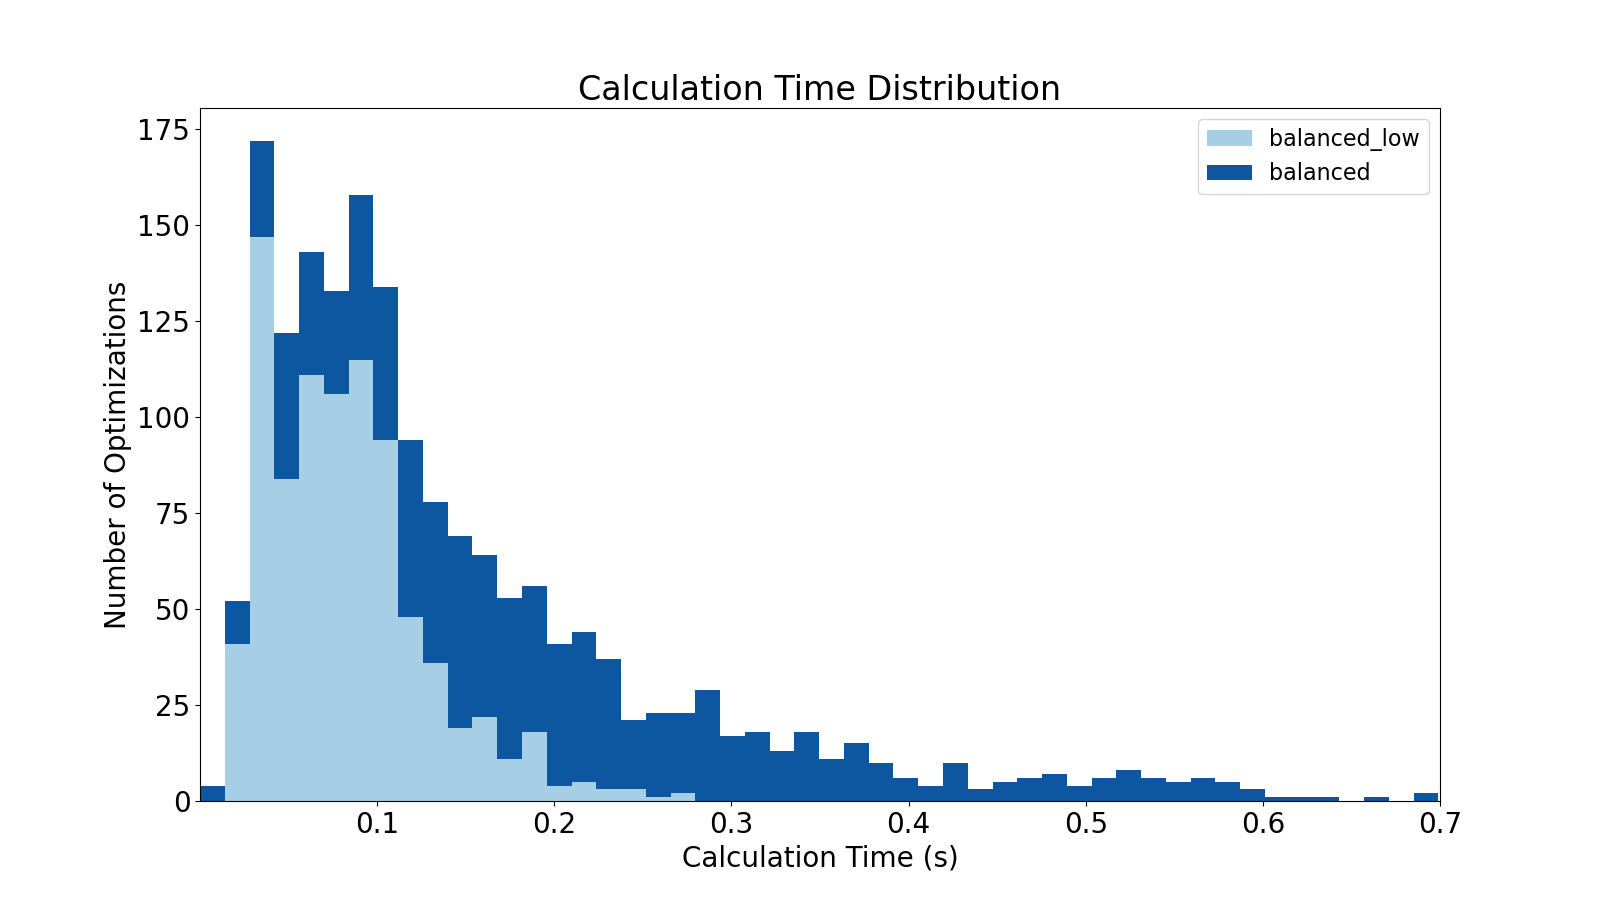
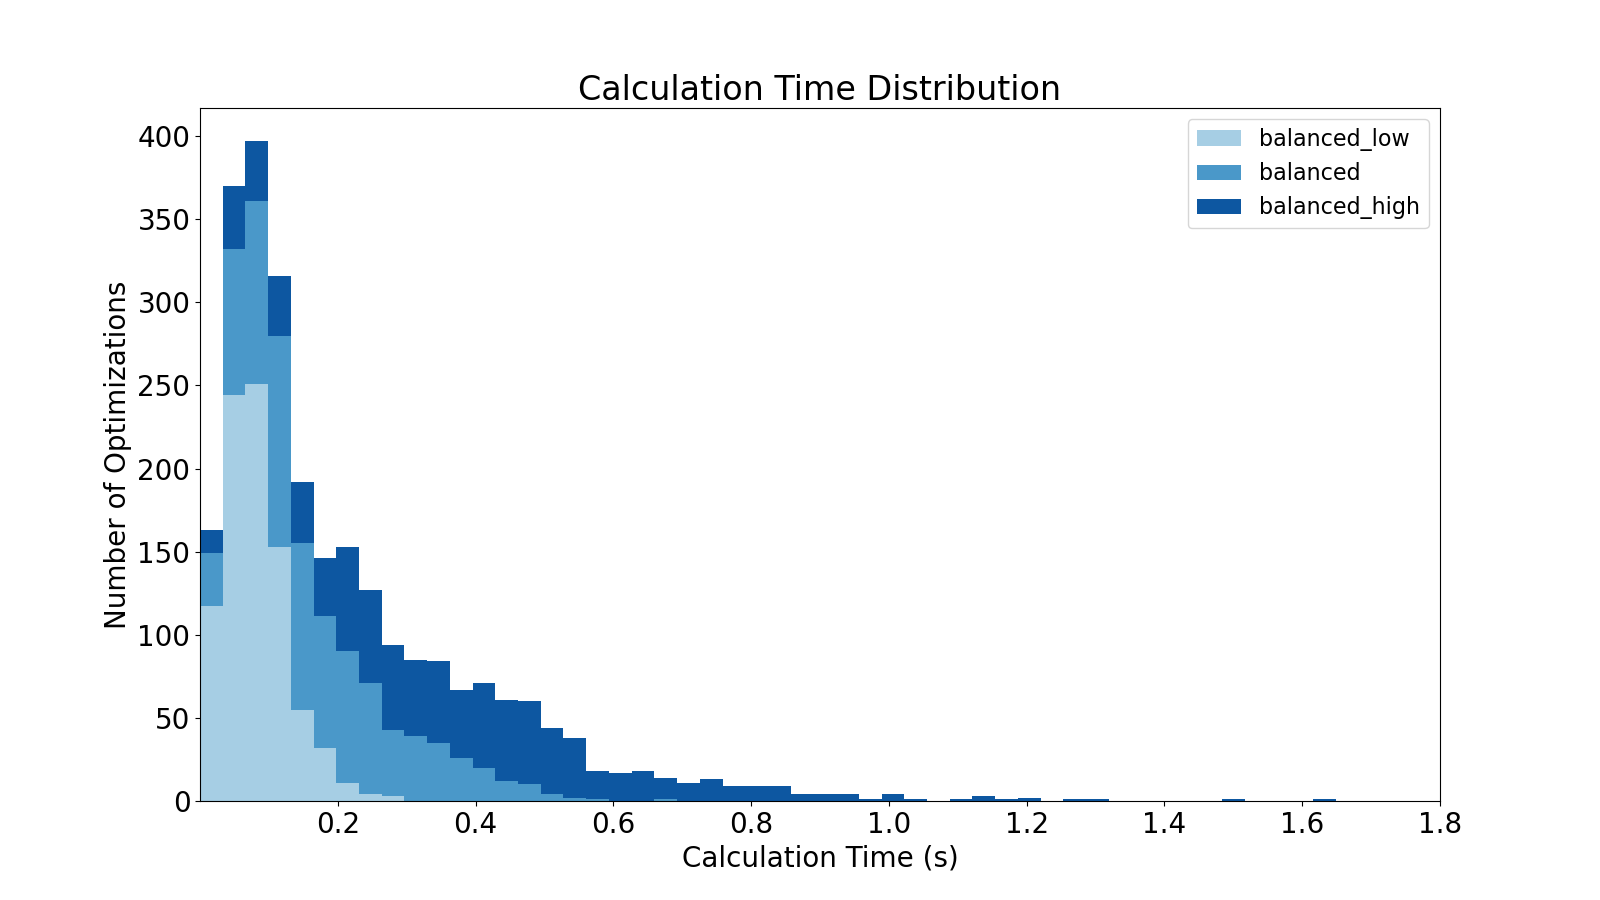
119-グラフの描画を修正

diff --git a/misc/plot_calculation_bar.py b/misc/plot_calculation_bar.py
@@ -6,11 +6,11 @@ import numpy as np
 # configuration 
 mpc_simulation_file_map = {
     'balanced_low': 'balanced_low_2222_10',
-    'balanced': 'balanced_2222_8',
-    #'balanced_high': 'balanced_high_2222_6',
+    'balanced': 'balanced_2222_10',
+    'balanced_high': 'balanced_high_2222_10',
 }
 
-stack_rule = 'queue' # simulation or queue
+stack_rule = 'simulation' # simulation or queue
 num_bins = 50 # number of bins for histogram
 save_file_extension = 'png' # png or eps
 queue_bin_width = 5 # width of each bin for queue length histogram
